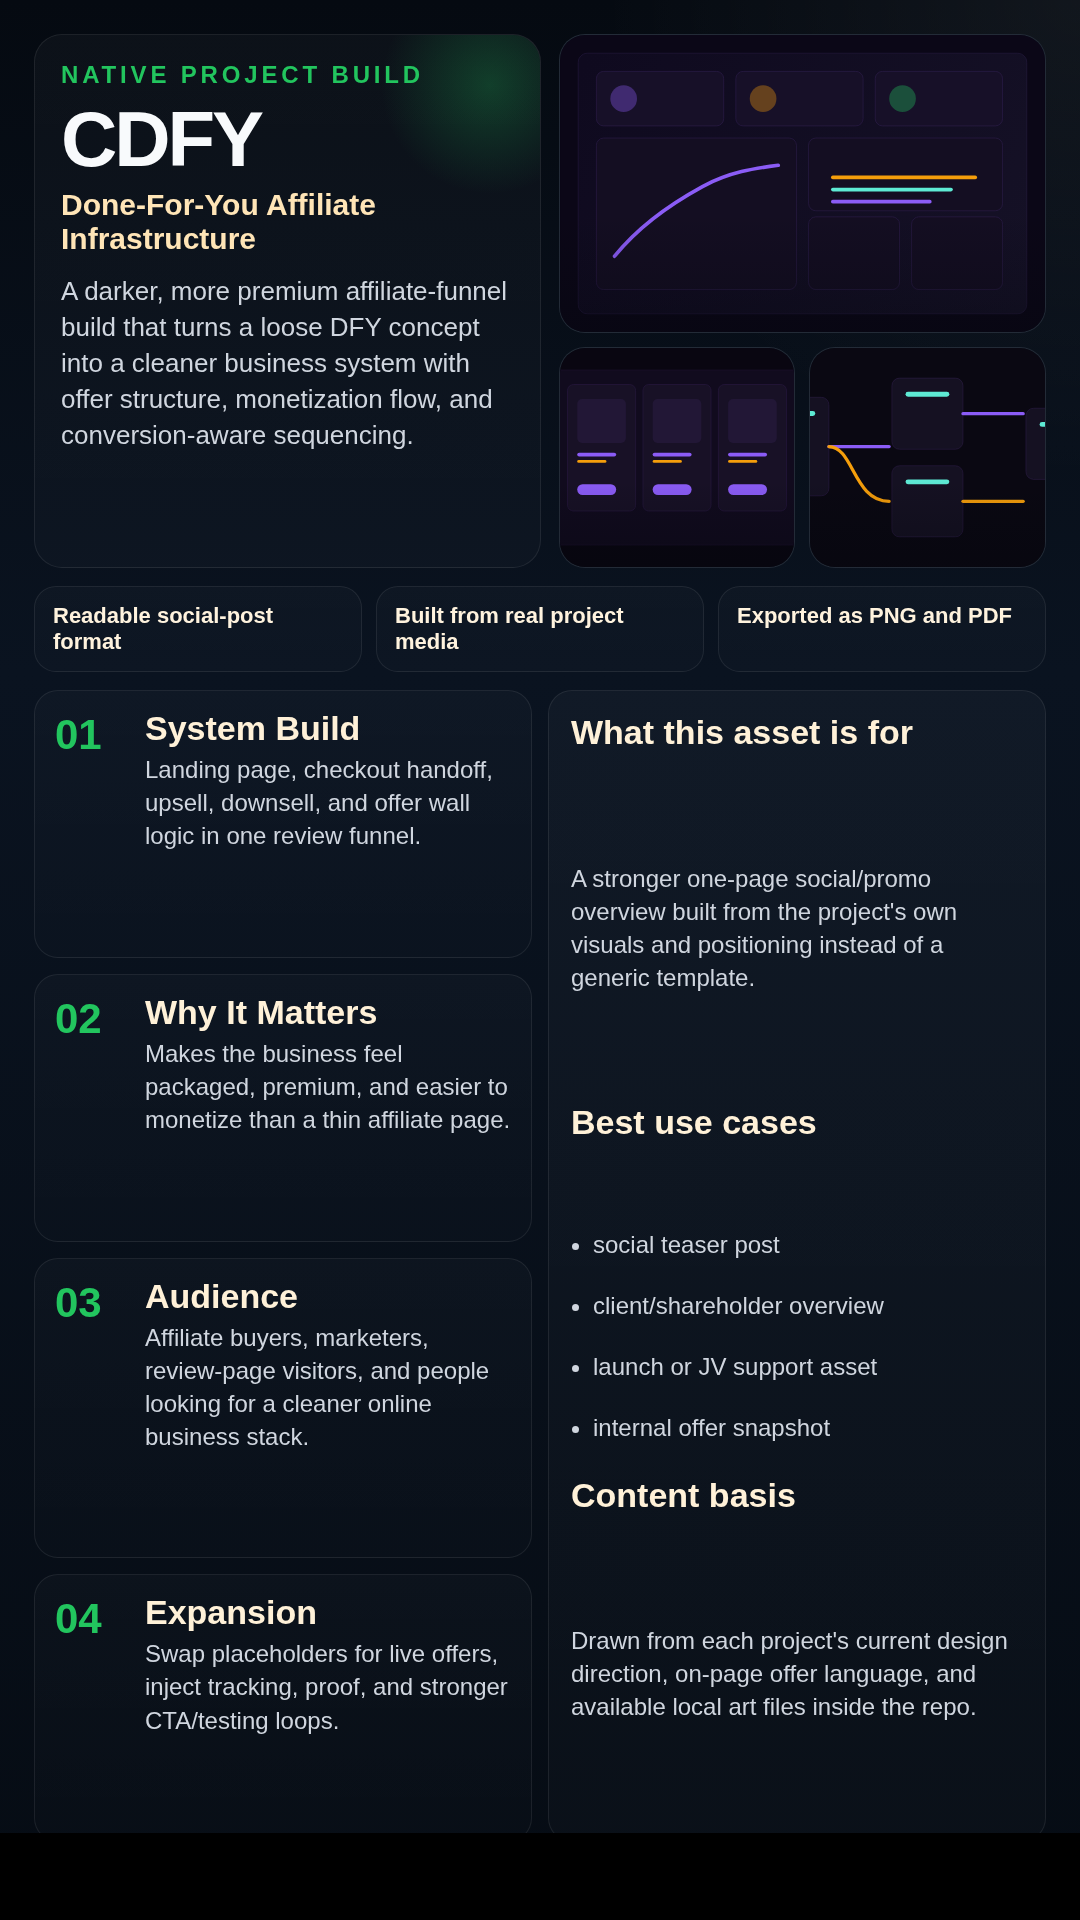
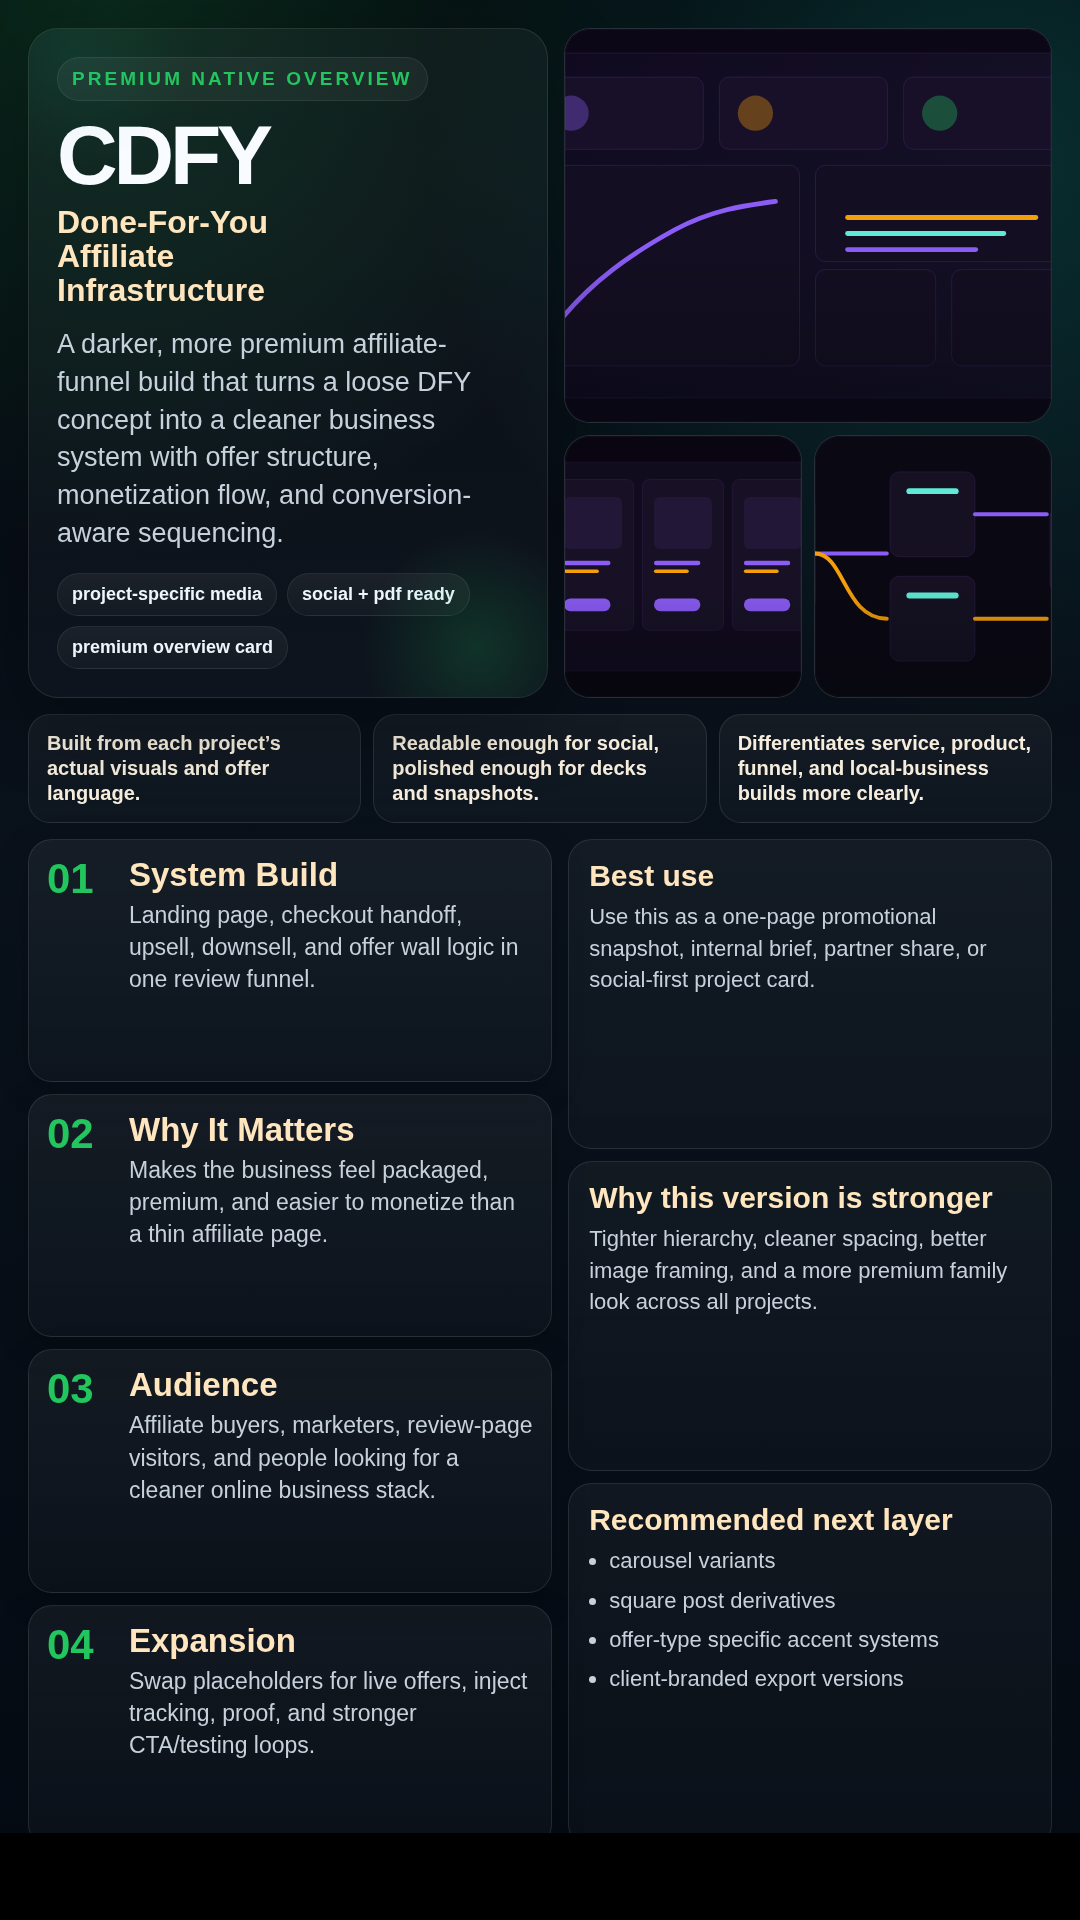
Polish native-media social asset set

diff --git a/social-assets/native-overview.html b/social-assets/native-overview.html
@@ -1,30 +1,16 @@
 <!DOCTYPE html><html><head><meta charset="utf-8"><style>
-  :root{--bg:#071018;--panel:#0c1722;--line:rgba(255,255,255,.08);--text:#f8fafc;--muted:#d0d6df;--accent:#22c55e;--accent2:#14b8a6}
-  *{box-sizing:border-box} html,body{margin:0;padding:0;background:#000;font-family:Inter,Arial,sans-serif} body{width:1080px;height:1920px;background:radial-gradient(circle at top right, rgba(255,255,255,.05), transparent 22%),linear-gradient(180deg,#050a11,#0a1320 35%,#060c14 100%);color:var(--text)}
-  .page{padding:34px;display:grid;grid-template-rows:auto auto 1fr auto;gap:18px;height:100%}
-  .hero{display:grid;grid-template-columns:1.02fr .98fr;gap:18px}
-  .brand{background:linear-gradient(180deg,rgba(255,255,255,.03),rgba(255,255,255,.02));border:1px solid var(--line);border-radius:28px;padding:26px;position:relative;overflow:hidden;min-height:320px}
-  .brand:before{content:'';position:absolute;right:-60px;top:-60px;width:220px;height:220px;background:radial-gradient(circle,var(--accent),transparent 70%);opacity:.25}
-  .eyebrow{font-size:24px;letter-spacing:.16em;text-transform:uppercase;color:var(--accent);font-weight:800;margin-bottom:14px}
-  h1{margin:0;font-size:78px;line-height:.94;letter-spacing:-.04em;max-width:8.5ch}
-  .subtitle{margin-top:12px;font-size:30px;font-weight:800;color:#ffe5b7}
-  .summary{margin-top:18px;font-size:26px;line-height:1.38;color:var(--muted)}
-  .visuals{display:grid;grid-template-columns:1fr 1fr;grid-template-rows:1.15fr .85fr;gap:14px;min-height:320px}
-  .shot{border-radius:26px;overflow:hidden;border:1px solid var(--line);background:#111a26;position:relative}.shot img{width:100%;height:100%;object-fit:cover;display:block}.shot-1{grid-column:1 / span 2}.shot:after{content:'';position:absolute;inset:auto 0 0 0;height:40%;background:linear-gradient(180deg,transparent,rgba(3,6,11,.32))}
-  .highlight{display:grid;grid-template-columns:repeat(3,1fr);gap:14px}
-  .chip{padding:16px 18px;border-radius:22px;border:1px solid var(--line);background:linear-gradient(180deg,rgba(255,255,255,.025),rgba(255,255,255,.015));font-size:22px;color:#fff3de;font-weight:700;min-height:86px}
-  .body{display:grid;grid-template-columns:1fr 1fr;gap:16px}
-  .info-card{display:grid;grid-template-columns:76px 1fr;gap:14px;align-items:start;padding:20px;border-radius:24px;border:1px solid var(--line);background:linear-gradient(180deg,rgba(255,255,255,.025),rgba(255,255,255,.012))}
-  .count{font-size:42px;font-weight:900;color:var(--accent)}
-  .info-card h3{margin:0 0 8px;font-size:34px;color:#fff1d8;line-height:1}
-  .info-card p{margin:0;font-size:24px;line-height:1.38;color:var(--muted)}
-  .aside{padding:22px;border-radius:24px;border:1px solid var(--line);background:linear-gradient(180deg,rgba(255,255,255,.03),rgba(255,255,255,.018));display:grid;gap:14px}
-  .aside h3{margin:0;font-size:34px;color:#fff1d8}.aside p,.aside li{font-size:24px;line-height:1.38;color:var(--muted)}
-  ul{margin:0;padding-left:22px;display:grid;gap:10px}
-  .footer{display:flex;justify-content:space-between;align-items:center;font-size:22px;color:#c4ced6;padding:0 6px}.footer strong{color:#fff}
-  </style></head><body><div class="page">
-    <div class="hero"><div class="brand"><div class="eyebrow">Native Project Build</div><h1>CDFY</h1><div class="subtitle">Done-For-You Affiliate Infrastructure</div><div class="summary">A darker, more premium affiliate-funnel build that turns a loose DFY concept into a cleaner business system with offer structure, monetization flow, and conversion-aware sequencing.</div></div><div class="visuals"><div class="shot shot-1"><img src="../assets/hero-dashboard.svg" alt="CDFY visual 1"></div><div class="shot shot-2"><img src="../assets/offer-stack.svg" alt="CDFY visual 2"></div><div class="shot shot-3"><img src="../assets/funnel-map.svg" alt="CDFY visual 3"></div></div></div>
-    <div class="highlight"><div class="chip">Readable social-post format</div><div class="chip">Built from real project media</div><div class="chip">Exported as PNG and PDF</div></div>
-    <div class="body"><div style="display:grid;gap:16px"><div class="info-card"><div class="count">01</div><div><h3>System Build</h3><p>Landing page, checkout handoff, upsell, downsell, and offer wall logic in one review funnel.</p></div></div><div class="info-card"><div class="count">02</div><div><h3>Why It Matters</h3><p>Makes the business feel packaged, premium, and easier to monetize than a thin affiliate page.</p></div></div><div class="info-card"><div class="count">03</div><div><h3>Audience</h3><p>Affiliate buyers, marketers, review-page visitors, and people looking for a cleaner online business stack.</p></div></div><div class="info-card"><div class="count">04</div><div><h3>Expansion</h3><p>Swap placeholders for live offers, inject tracking, proof, and stronger CTA/testing loops.</p></div></div></div><div class="aside"><h3>What this asset is for</h3><p>A stronger one-page social/promo overview built from the project's own visuals and positioning instead of a generic template.</p><h3>Best use cases</h3><ul><li>social teaser post</li><li>client/shareholder overview</li><li>launch or JV support asset</li><li>internal offer snapshot</li></ul><h3>Content basis</h3><p>Drawn from each project's current design direction, on-page offer language, and available local art files inside the repo.</p></div></div>
-    <div class="footer"><div><strong>cdfy.us</strong></div><div>native overview asset</div></div>
-  </div></body></html>
+ :root{--bg:#04070d;--bg2:#09111b;--panel:rgba(10,17,27,.86);--panel2:rgba(255,255,255,.045);--line:rgba(255,255,255,.10);--text:#f8fbff;--muted:#c7d1dc;--accent:#22c55e;--accent2:#14b8a6;--warm:#ffe6be}
+ *{box-sizing:border-box} html,body{margin:0;padding:0;background:#000;font-family:Inter,Arial,sans-serif} body{width:1080px;height:1920px;color:var(--text);background:radial-gradient(circle at 10% 0%, color-mix(in srgb,var(--accent) 18%, transparent), transparent 26%),radial-gradient(circle at 92% 8%, color-mix(in srgb,var(--accent2) 22%, transparent), transparent 28%),linear-gradient(180deg,var(--bg) 0%,var(--bg2) 45%,#050b13 100%)}
+ .page{height:100%;padding:28px;display:grid;grid-template-rows:auto auto 1fr auto;gap:16px}
+ .hero{display:grid;grid-template-columns:1fr .94fr;gap:16px}
+ .brand{position:relative;overflow:hidden;border-radius:30px;border:1px solid var(--line);padding:28px;background:linear-gradient(180deg,rgba(255,255,255,.04),rgba(255,255,255,.025));box-shadow:0 24px 80px rgba(0,0,0,.28)}
+ .brand:before{content:'';position:absolute;inset:auto -50px -70px auto;width:240px;height:240px;border-radius:50%;background:radial-gradient(circle,color-mix(in srgb,var(--accent) 55%, transparent),transparent 68%);opacity:.32}.brand:after{content:'';position:absolute;left:-70px;top:-90px;width:230px;height:230px;border-radius:50%;background:radial-gradient(circle,color-mix(in srgb,var(--accent2) 35%, transparent),transparent 70%);opacity:.22}
+ .eyebrow{display:inline-flex;align-items:center;gap:10px;padding:10px 14px;border-radius:999px;background:rgba(255,255,255,.05);border:1px solid rgba(255,255,255,.08);font-size:19px;font-weight:800;letter-spacing:.16em;text-transform:uppercase;color:var(--accent)}
+ h1{margin:16px 0 12px;font-size:84px;line-height:.92;letter-spacing:-.05em;max-width:8ch;text-wrap:balance}.subtitle{font-size:32px;line-height:1.06;font-weight:800;color:var(--warm);max-width:14ch}.summary{margin-top:18px;font-size:27px;line-height:1.4;color:var(--muted);max-width:29ch}
+ .hero-meta{display:flex;gap:10px;flex-wrap:wrap;margin-top:20px}.meta{padding:10px 14px;border-radius:999px;background:linear-gradient(180deg,rgba(255,255,255,.06),rgba(255,255,255,.03));border:1px solid rgba(255,255,255,.08);font-size:18px;font-weight:700;color:#eef5ff}
+ .visuals{display:grid;grid-template-columns:1fr 1fr;grid-template-rows:1.2fr .8fr;gap:12px}.shot{margin:0;border-radius:26px;overflow:hidden;border:1px solid var(--line);background:#0f1722;position:relative;min-height:145px}.shot img{width:100%;height:100%;object-fit:cover;display:block}.shot-1{grid-column:1/span 2}.shot:after{content:'';position:absolute;inset:auto 0 0 0;height:44%;background:linear-gradient(180deg,transparent,rgba(4,7,13,.42))}.shot:before{content:'';position:absolute;inset:0;border-radius:inherit;box-shadow:inset 0 0 0 1px rgba(255,255,255,.03);pointer-events:none}
+ .value-row{display:grid;grid-template-columns:repeat(3,1fr);gap:12px}.pill{padding:16px 18px;border-radius:22px;border:1px solid var(--line);background:linear-gradient(180deg,rgba(255,255,255,.05),rgba(255,255,255,.025));font-size:20px;line-height:1.25;color:#f6eddc;font-weight:700;min-height:82px;display:flex;align-items:center}
+ .body{display:grid;grid-template-columns:1.04fr .96fr;gap:16px}.left{display:grid;gap:12px}.info-card{display:grid;grid-template-columns:68px 1fr;gap:14px;padding:18px;border-radius:24px;border:1px solid var(--line);background:linear-gradient(180deg,rgba(255,255,255,.05),rgba(255,255,255,.022));box-shadow:0 10px 34px rgba(0,0,0,.18)}.count{font-size:42px;line-height:1;font-weight:900;color:var(--accent)}.info-card h3{margin:0 0 8px;font-size:33px;line-height:1;color:var(--warm)}.info-card p{margin:0;font-size:23px;line-height:1.4;color:var(--muted)}
+ .aside{display:grid;gap:12px}.aside-card{padding:20px;border-radius:24px;border:1px solid var(--line);background:linear-gradient(180deg,rgba(255,255,255,.045),rgba(255,255,255,.022))}.aside-card h3{margin:0 0 10px;font-size:30px;color:var(--warm);line-height:1.05}.aside-card p,.aside-card li{margin:0;font-size:22px;line-height:1.42;color:var(--muted)} ul{margin:0;padding-left:20px;display:grid;gap:8px}
+ .footer{display:flex;justify-content:space-between;align-items:center;padding:2px 4px 0;color:#c2ceda;font-size:19px;letter-spacing:.02em}.footer strong{font-size:22px;color:#fff}.footer .right{display:flex;align-items:center;gap:10px}.dot{width:10px;height:10px;border-radius:50%;background:linear-gradient(135deg,var(--accent),var(--accent2));box-shadow:0 0 0 6px rgba(255,255,255,.03)}
+ </style></head><body><div class="page"><section class="hero"><div class="brand"><div class="eyebrow">Premium Native Overview</div><h1>CDFY</h1><div class="subtitle">Done-For-You Affiliate Infrastructure</div><div class="summary">A darker, more premium affiliate-funnel build that turns a loose DFY concept into a cleaner business system with offer structure, monetization flow, and conversion-aware sequencing.</div><div class="hero-meta"><div class="meta">project-specific media</div><div class="meta">social + pdf ready</div><div class="meta">premium overview card</div></div></div><div class="visuals"><figure class="shot shot-1"><img src="../assets/hero-dashboard.svg" alt="CDFY visual 1"></figure><figure class="shot shot-2"><img src="../assets/offer-stack.svg" alt="CDFY visual 2"></figure><figure class="shot shot-3"><img src="../assets/funnel-map.svg" alt="CDFY visual 3"></figure></div></section><section class="value-row"><div class="pill">Built from each project’s actual visuals and offer language.</div><div class="pill">Readable enough for social, polished enough for decks and snapshots.</div><div class="pill">Differentiates service, product, funnel, and local-business builds more clearly.</div></section><section class="body"><div class="left"><article class="info-card"><div class="count">01</div><div><h3>System Build</h3><p>Landing page, checkout handoff, upsell, downsell, and offer wall logic in one review funnel.</p></div></article><article class="info-card"><div class="count">02</div><div><h3>Why It Matters</h3><p>Makes the business feel packaged, premium, and easier to monetize than a thin affiliate page.</p></div></article><article class="info-card"><div class="count">03</div><div><h3>Audience</h3><p>Affiliate buyers, marketers, review-page visitors, and people looking for a cleaner online business stack.</p></div></article><article class="info-card"><div class="count">04</div><div><h3>Expansion</h3><p>Swap placeholders for live offers, inject tracking, proof, and stronger CTA/testing loops.</p></div></article></div><div class="aside"><div class="aside-card"><h3>Best use</h3><p>Use this as a one-page promotional snapshot, internal brief, partner share, or social-first project card.</p></div><div class="aside-card"><h3>Why this version is stronger</h3><p>Tighter hierarchy, cleaner spacing, better image framing, and a more premium family look across all projects.</p></div><div class="aside-card"><h3>Recommended next layer</h3><ul><li>carousel variants</li><li>square post derivatives</li><li>offer-type specific accent systems</li><li>client-branded export versions</li></ul></div></div></section><footer class="footer"><div><strong>cdfy.us</strong></div><div class="right"><span class="dot"></span><span>polished native asset</span></div></footer></div></body></html>